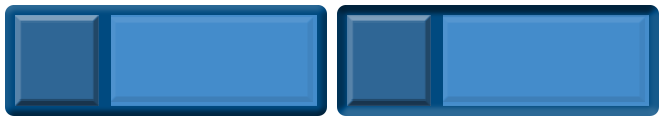
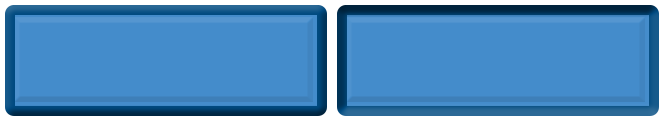
Fix Gruntfile watching assets. Change ToggleButton to use all space for answer text and remove the label text. Remove unused assets.

Changed region(s): [[0.512, 0.124, 0.6928, 0.8926], [0.0, 0.124, 0.1807, 0.8926]]

diff --git a/client/prefabs/togglebutton.js b/client/prefabs/togglebutton.js
@@ -8,7 +8,7 @@ var ToggleButton = function(game, x, y, callbackContext, group, label, answer) {
   this.toggled = false;
   this.addLabelText(game, label);
   this.addAnswerText(game);
-  this.scale.setTo(0.64, 0.64);
+  this.scale.setTo(0.8);
 };
 
 ToggleButton.prototype = Object.create(Phaser.Button.prototype);
@@ -38,16 +38,16 @@ ToggleButton.prototype.toggle = function(toggled) {
   }
 };
 
-ToggleButton.prototype.addLabelText = function(game, label) {
-  var labelTextStyle = {font: '32px Arial', fill: 'white', align: 'center'};
-  var labelText = game.add.text(50, this.height / 2, label, labelTextStyle);
-  labelText.anchor.setTo(0.5, 0.5);
-  this.addChild(labelText);
+ToggleButton.prototype.addLabelText = function(label) {
+  // var labelTextStyle = {font: '32px Arial', fill: 'white', align: 'center'};
+  // var labelText = this.game.add.text(50, this.height / 2, label, labelTextStyle);
+  // labelText.anchor.setTo(0.5, 0.5);
+  // this.addChild(labelText);
 };
 
 ToggleButton.prototype.addAnswerText = function(game) {
-  var answerTextStyle = {font: '20px Arial', fill: 'white', align: 'left', wordWrap: true, wordWrapWidth: 200};
-  var answerText = game.add.text(117, this.height / 2, this.answer.text, answerTextStyle);
+  var answerTextStyle = {font: '12pt Arial', fill: 'white', align: 'left', wordWrap: true, wordWrapWidth: 300};
+  var answerText = game.add.text(20, this.height / 2, this.answer.text, answerTextStyle);
   answerText.anchor.setTo(0, 0.5);
   this.addChild(answerText);
 };

diff --git a/client/states/quiz.js b/client/states/quiz.js
@@ -56,13 +56,13 @@ Quiz.prototype = {
     var centerY = this.game.world.centerY;
     var answers = this.currentTask.answers;
 
-    var buttonA = new ToggleButton(this, centerX - 215, centerY + 170, this, this.answerButtons, 'A', answers[0]);
-    var buttonB = new ToggleButton(this, centerX + 3, centerY + 170, this, this.answerButtons, 'B', answers[1]);
-    var buttonC = new ToggleButton(this, centerX - 215, centerY + 260, this, this.answerButtons, 'C', answers[2]);
-    var buttonD = new ToggleButton(this, centerX + 3, centerY + 260, this, this.answerButtons, 'D', answers[3]);
+    var buttonA = new ToggleButton(this, centerX - 270, centerY + 125, this, this.answerButtons, 'A', answers[0]);
+    var buttonB = new ToggleButton(this, centerX, centerY + 125, this, this.answerButtons, 'B', answers[1]);
+    var buttonC = new ToggleButton(this, centerX - 270, centerY + 225, this, this.answerButtons, 'C', answers[2]);
+    var buttonD = new ToggleButton(this, centerX, centerY + 225, this, this.answerButtons, 'D', answers[3]);
 
-    var confirmButton = this.game.add.button(centerX + 250, this.game.world.height, 'quiz-confirm', this.confirmOnClick, this);
-    confirmButton.scale.setTo(0.35, 0.35);
+    var confirmButton = this.game.add.button(centerX + 255, this.game.world.height, 'quiz-confirm', this.confirmOnClick, this);
+    confirmButton.scale.setTo(0.3);
     confirmButton.anchor.setTo(0.5, 1);
   },
   confirmOnClick: function(button) {

diff --git a/Gruntfile.js b/Gruntfile.js
@@ -23,7 +23,7 @@ module.exports = function(grunt) {
         files: [
             'client/css/*',
             'client/index.html',
-            'assets/*',
+            'client/assets/*',
             'client/**/*.js',
             'client/*.js',
             '!client/main.js'
